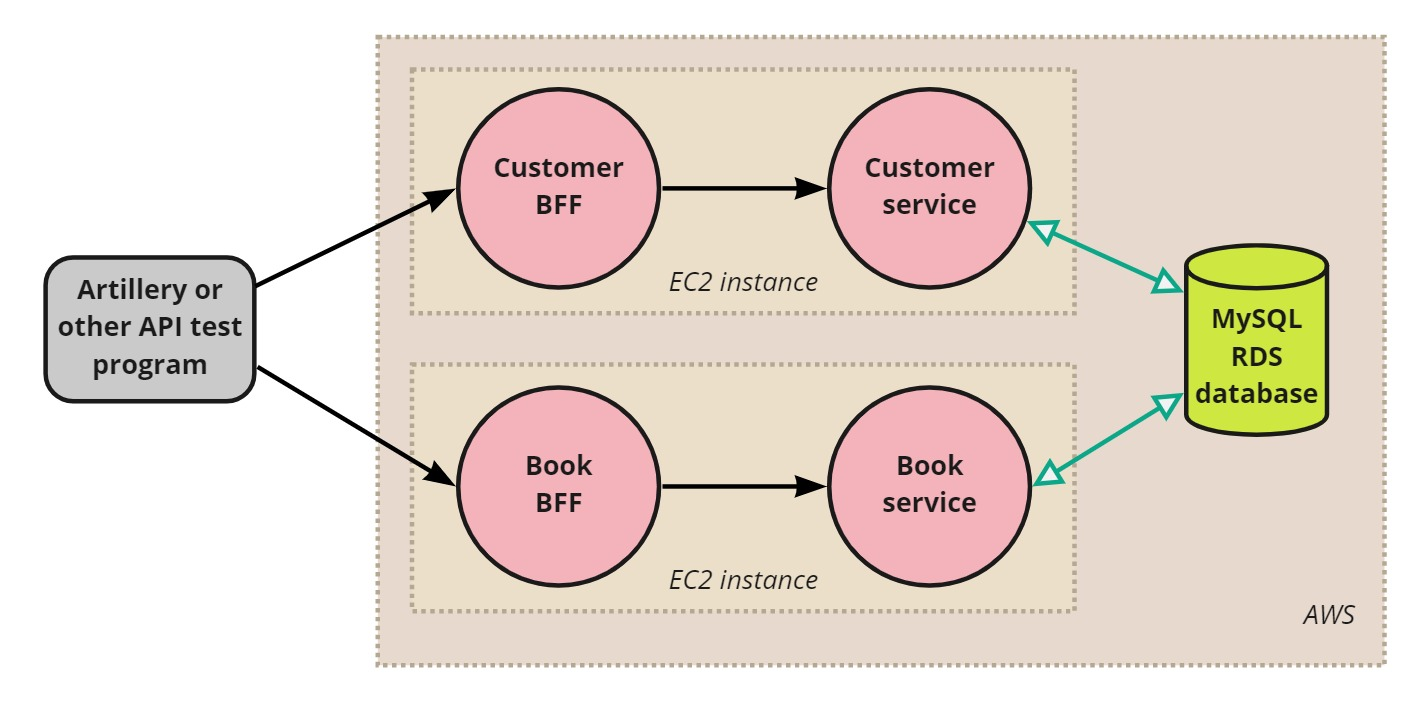
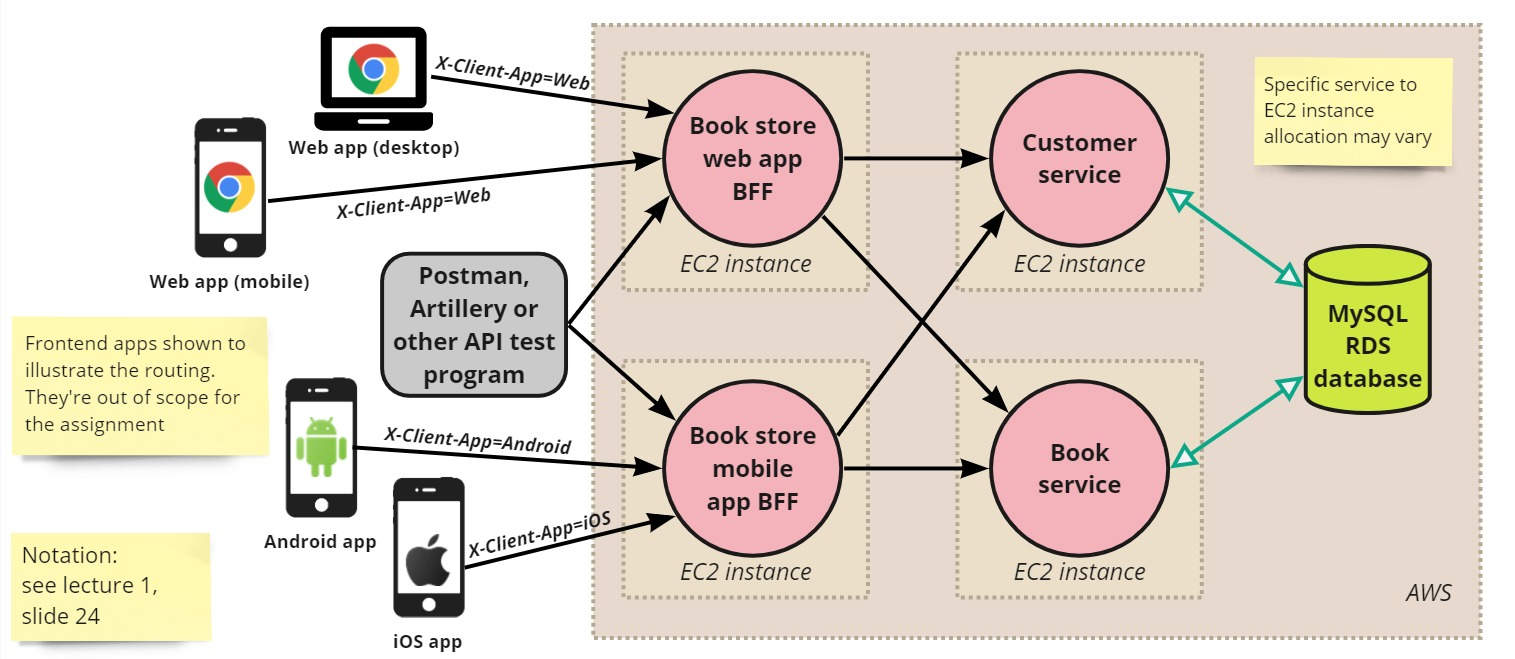
review of A2 template to accomodate different target groups and routing

diff --git a/README.md b/README.md
@@ -22,9 +22,9 @@ Example of application design that could be deployed to this infrastructure.
 ![notation key](/images/notation-key-runtime-views.jpg)
 
 
-## Multiple EC2 and RDS cluster
+## Multiple EC2 instances, routing based on HTTP header, and RDS cluster
 
-The [CF template](/templates/CF-A2-cmu.yml).
+The [CF template](/templates/CF-A2-cmu.yml). (The routing rules might be incomplete, but you can easily fix them.)
 
 AWS deployment diagram (using [AWS notation](https://aws.amazon.com/architecture/icons/)).
 
